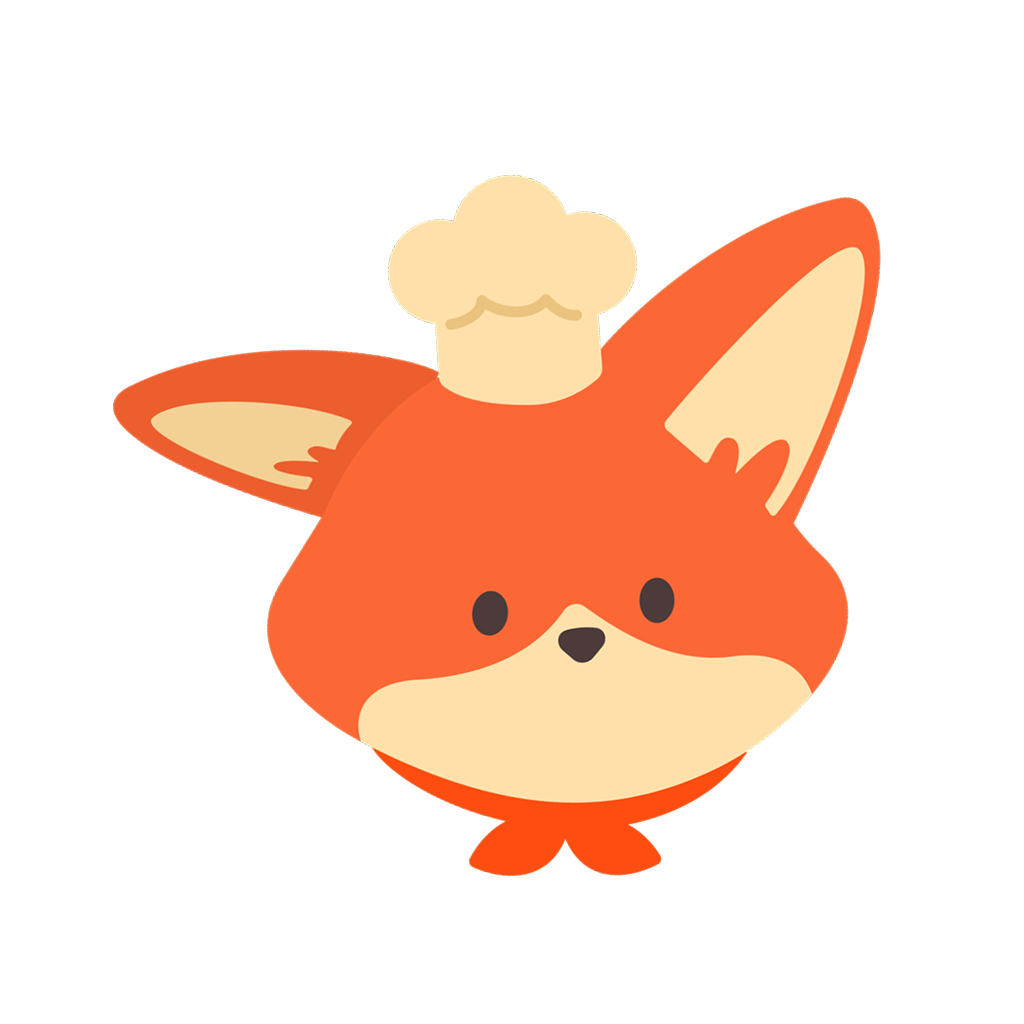
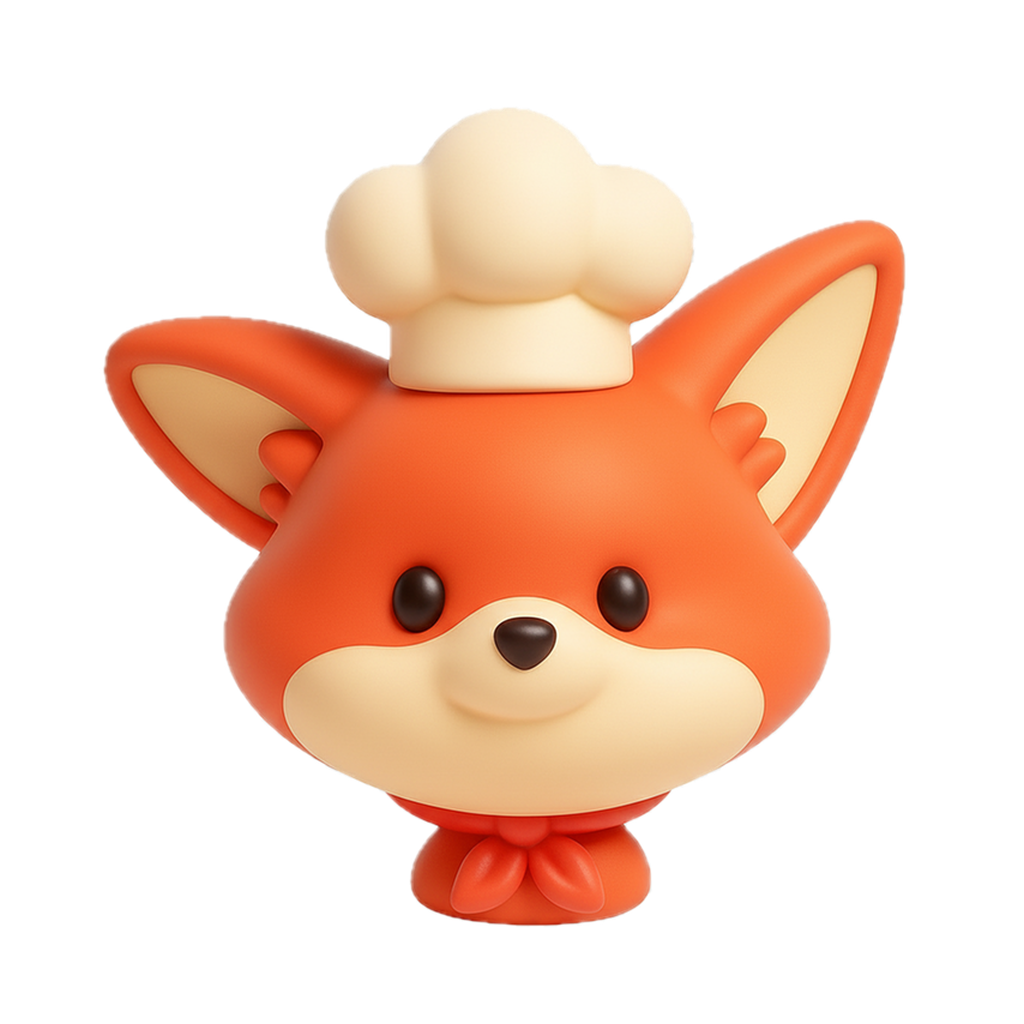
feat : 메인 캐릭터 변경

Changed region(s): [[0.0938, 0.0938, 0.9062, 0.9062]]

diff --git a/src/pages/login/ui/TermsAndConditionsModalContent.tsx b/src/pages/login/ui/TermsAndConditionsModalContent.tsx
@@ -64,7 +64,9 @@ export default function TermsAndConditionsModalContent() {
   };
 
   return (
-    <BottomSheetView style={[styles.container,{paddingBottom: insets.bottom}]}>
+    <BottomSheetView
+      style={[styles.container, { paddingBottom: insets.bottom }]}
+    >
       <View style={styles.AllAgreeBottonContainer}>
         <TouchableOpacity
           style={styles.allAgreeBotton}

diff --git a/src/pages/login/ui/button.tsx b/src/pages/login/ui/button.tsx
@@ -20,6 +20,7 @@ import {
 } from "@gorhom/bottom-sheet";
 import TermsAndConditionsModalContent from "@/src/pages/login/ui/TermsAndConditionsModalContent";
 import { useEffect, useRef, useState } from "react";
+import { useSafeAreaInsets } from "react-native-safe-area-context";
 
 GoogleSignin.configure({
   webClientId: process.env.EXPO_PUBLIC_WEB_ID,
